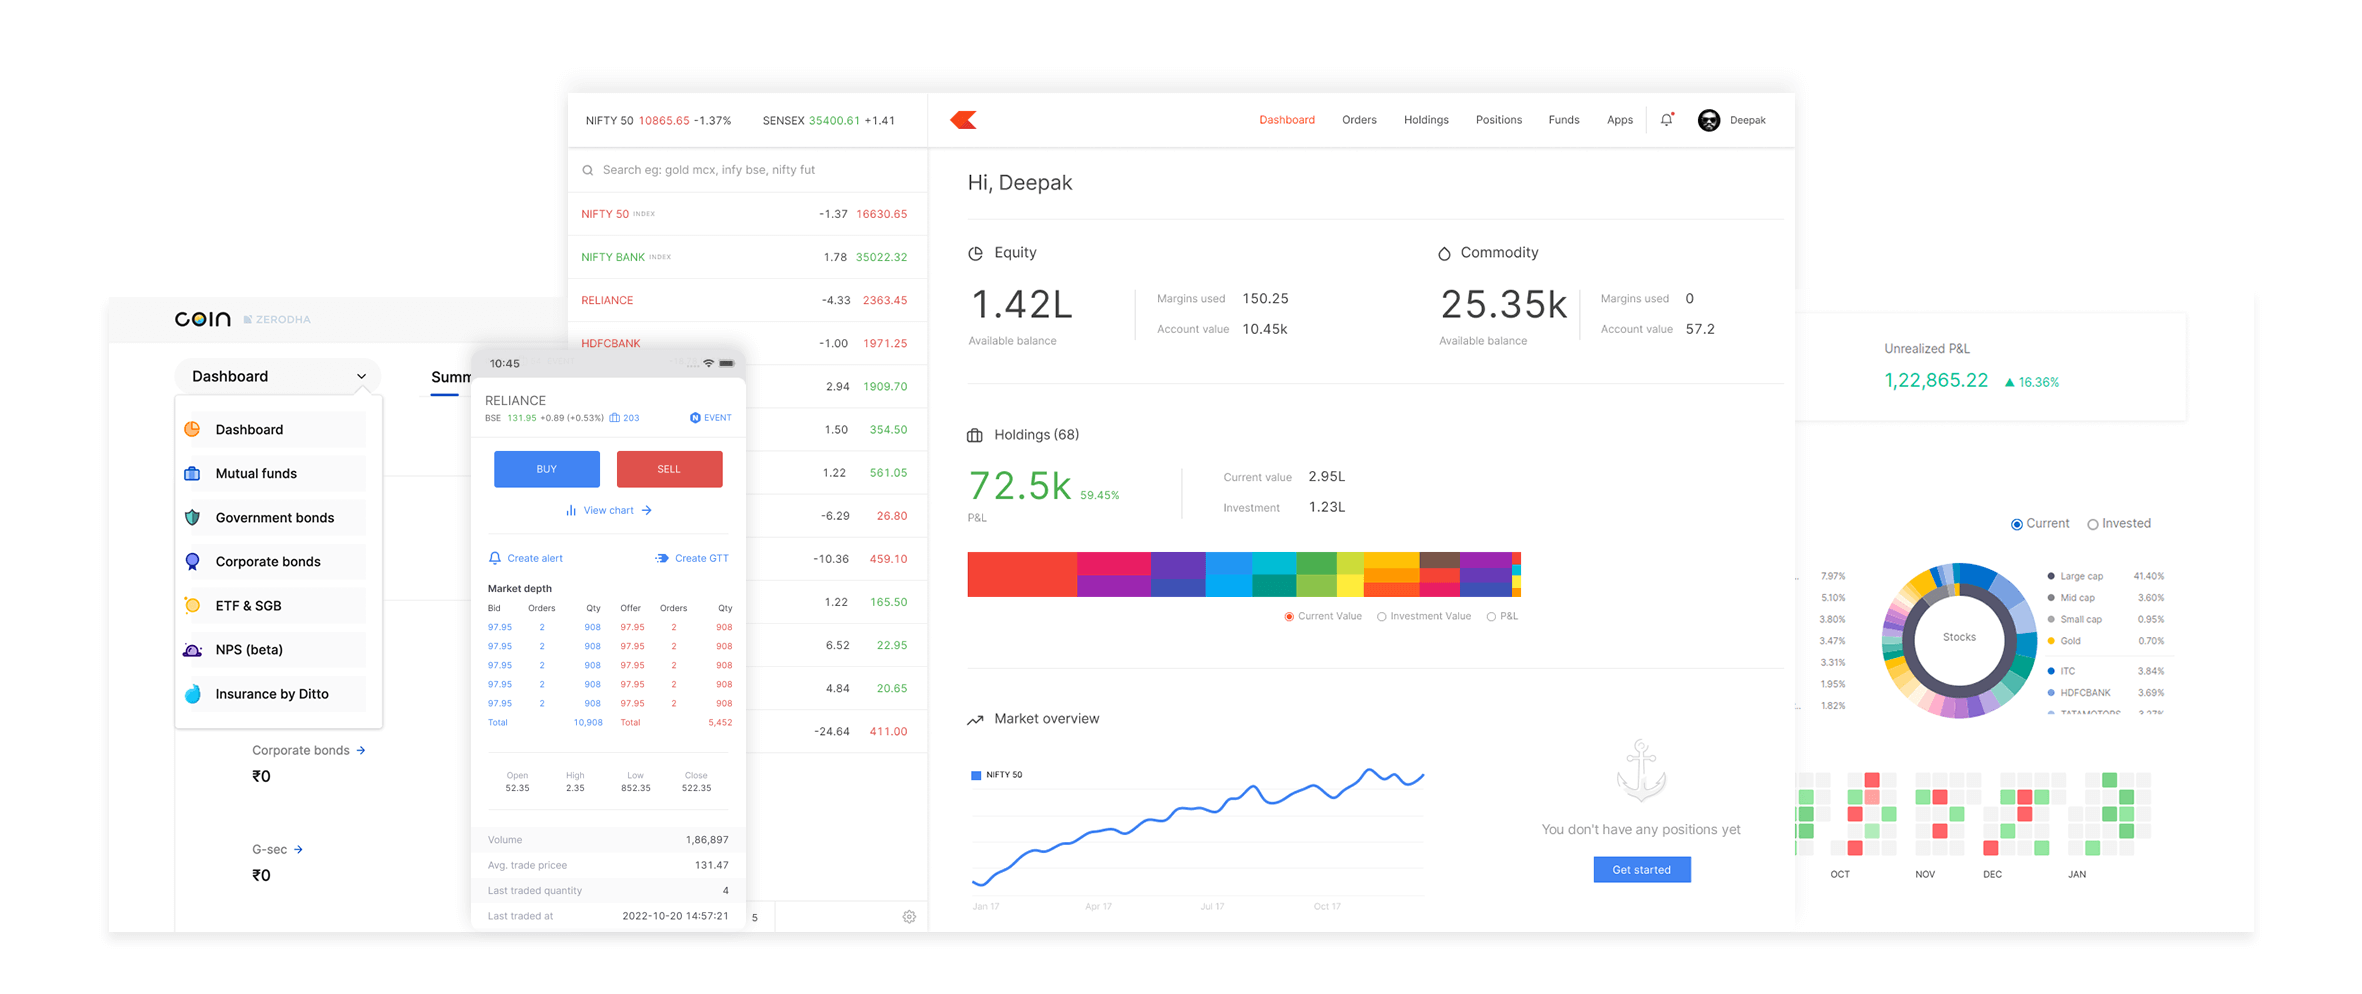
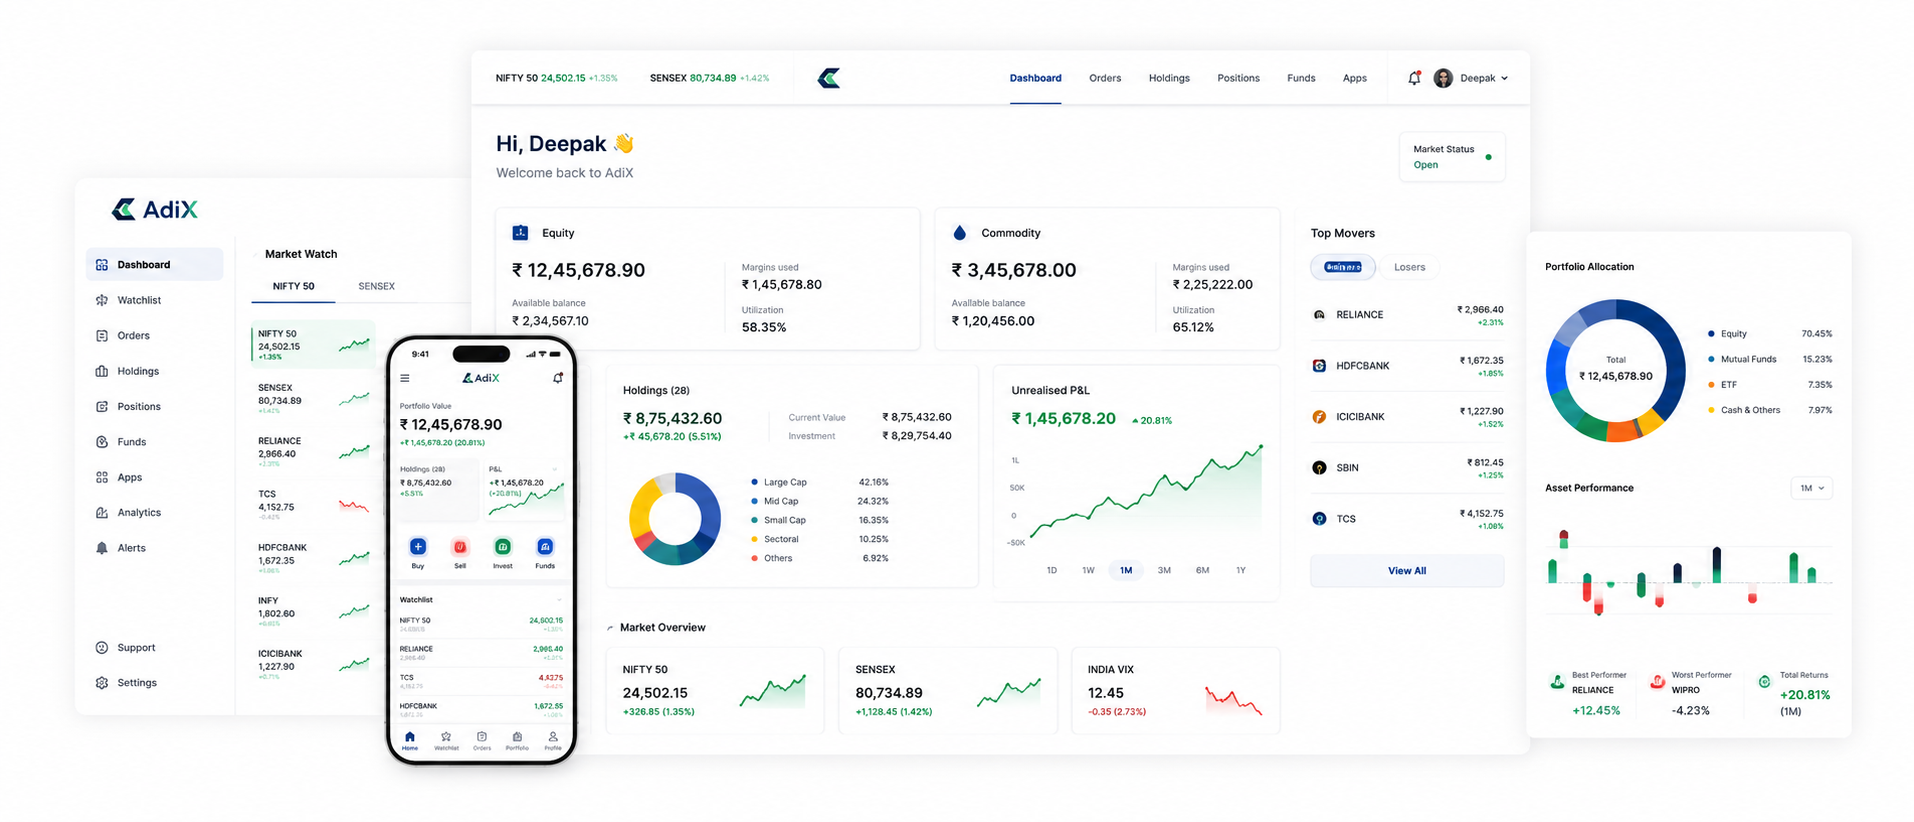
fix styling

diff --git a/src/landing_page/Navbar.js b/src/landing_page/Navbar.js
@@ -23,6 +23,7 @@ function Navbar() {
             style={{
                 backgroundColor: "#FFF",
                 width: "100%",
+                height:"80px",
                 padding: "0",
             }}
         >
@@ -32,13 +33,9 @@ function Navbar() {
 
                 <Link className="navbar-brand d-flex align-items-center m-0" to="/">
                     <img
-                        src="media/images/logo.svg"
+                        src="media/images/logo.png"
                         alt="Logo"
-                        className="img-fluid"
-                        style={{
-                            width: "140px",
-                            minWidth: "110px",
-                        }}
+                        style={{width: "150px",objectFit: "contain"}}
                     />
                 </Link>
 
